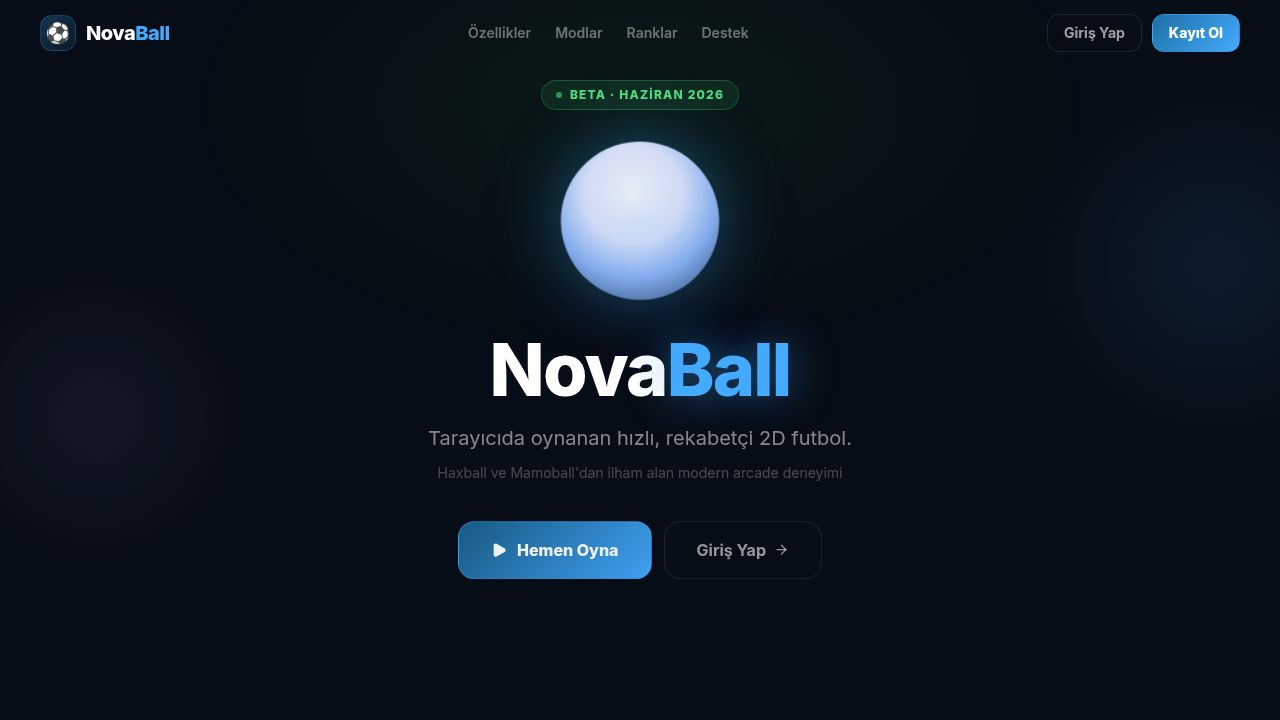
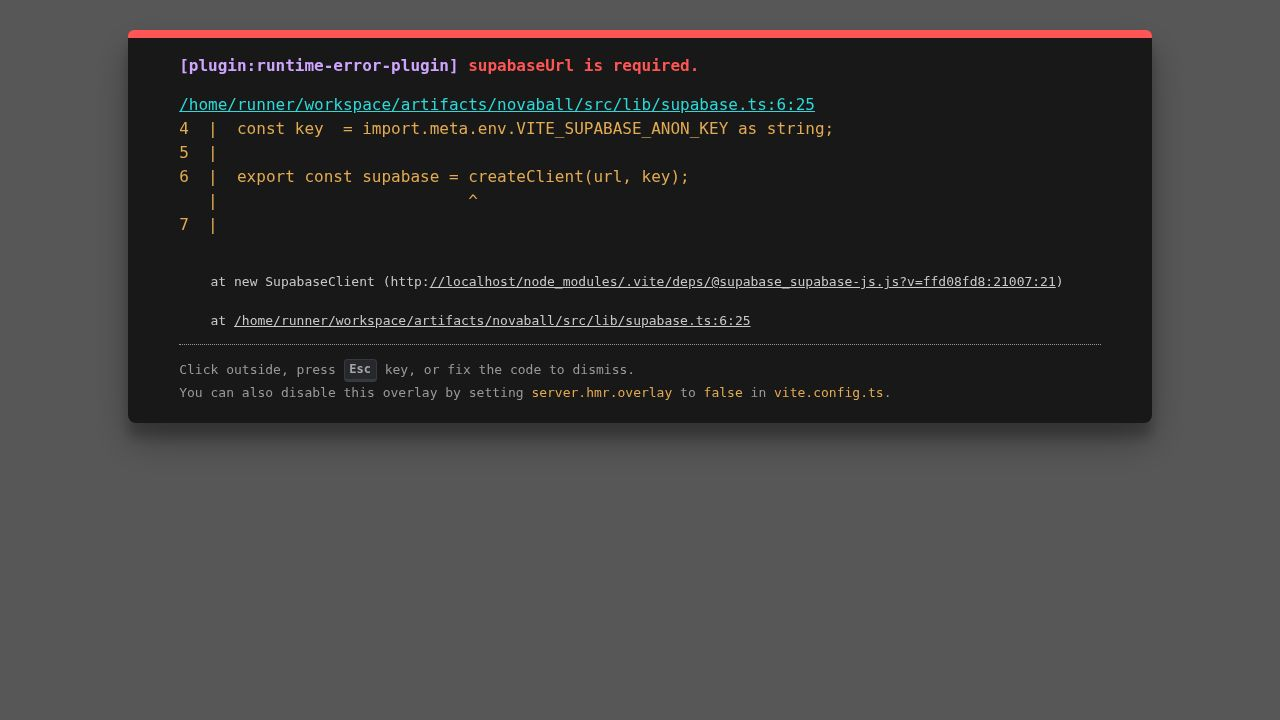
NovaBall: Replit'e taşındı — replit.md güncellendi

diff --git a/replit.md b/replit.md
@@ -266,7 +266,7 @@ bash github-sync.sh push "NovaBall: güncelleme"
 ### v0.0.2 — Auth & Profil (12 Haziran 2026)
 ### v0.0.1 — İlk Sürüm (11 Haziran 2026)
 
-## Kullanıcı Tercihleri
+## User preferences
 
 - **Dil**: Türkçe UI, Türkçe değişken yorumları kabul edilir
 - **Marka**: NovaBall, neon-spor karanlık tema (`#070d16` arka plan, neon yeşil saha)